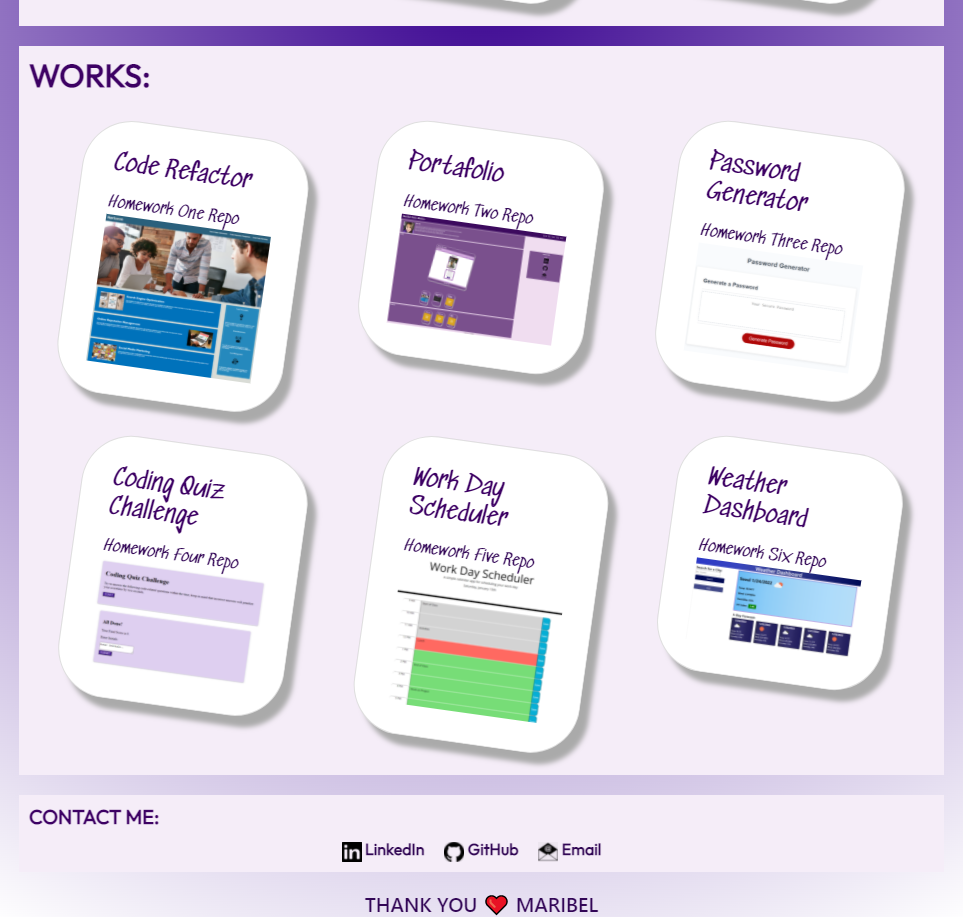
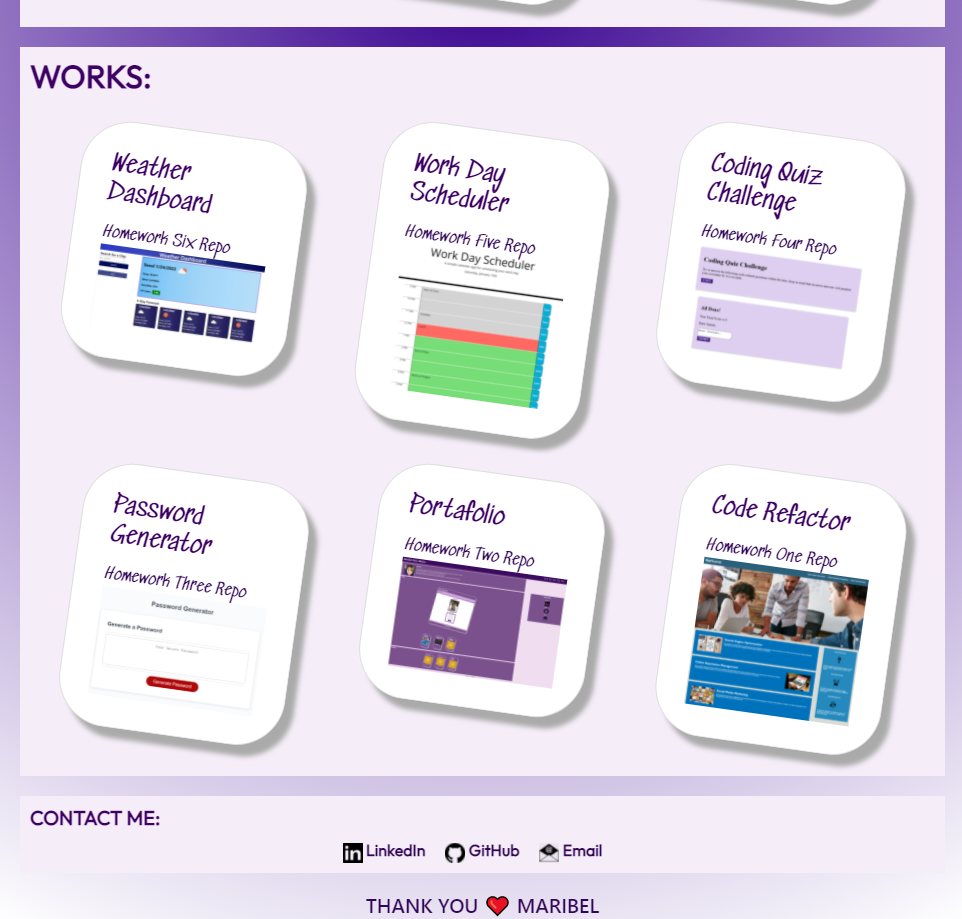
changed the line up of the cards

diff --git a/Assets/js/script.js b/Assets/js/script.js
@@ -1,28 +1,27 @@
 /// links location and information of homework works to be displayed 
 var worksInfo = {
-    urlLink: ["https://marymd98.github.io/Unit1-Homework/",
-            "https://marymd98.github.io/Unit2-Homework/",
-            "https://marymd98.github.io/Unit3-Homework/",
-            "https://marymd98.github.io/Unit4-Homework/",
+    urlLink: ["https://marymd98.github.io/Unit6-Homework/",
             "https://marymd98.github.io/Unit5-Homework/",
-            "https://marymd98.github.io/Unit6-Homework/"],
-    repoLink:["https://github.com/MaryMD98/Unit1-Homework.git",
-            "https://github.com/MaryMD98/Unit2-Homework.git",
-            "https://github.com/MaryMD98/Unit3-Homework.git",
-            "https://github.com/MaryMD98/Unit4-Homework.git",
+            "https://marymd98.github.io/Unit4-Homework/",
+            "https://marymd98.github.io/Unit3-Homework/",
+            "https://marymd98.github.io/Unit2-Homework/",
+            "https://marymd98.github.io/Unit1-Homework/"],
+    repoLink:["https://github.com/MaryMD98/Unit6-Homework.git",
             "https://github.com/MaryMD98/Unit5-Homework.git",
-            "https://github.com/MaryMD98/Unit6-Homework.git"],
-    imgSRC: ["./Assets/pictures/hw-projects/hw1-Screenshot.png",
-            "./Assets/pictures/hw-projects/hw2-Screenshot.png",
-            "./Assets/pictures/hw-projects/hw3-Screenshot.png",
-            "./Assets/pictures/hw-projects/hw4-Screenshot.png",
+            "https://github.com/MaryMD98/Unit4-Homework.git",
+            "https://github.com/MaryMD98/Unit3-Homework.git",
+            "https://github.com/MaryMD98/Unit2-Homework.git",
+            "https://github.com/MaryMD98/Unit1-Homework.git"],
+    imgSRC: ["./Assets/pictures/hw-projects/hw6-Screenshot.png",
             "./Assets/pictures/hw-projects/hw5-Screenshot.png",
-            "./Assets/pictures/hw-projects/hw6-Screenshot.png",],
-    title: ["Code Refactor","Portafolio","Password Generator",
-            "Coding Quiz Challenge","Work Day Scheduler",
-            "Weather Dashboard"],
-    cardTXT:["Homework One Repo","Homework Two Repo","Homework Three Repo",
-            "Homework Four Repo","Homework Five Repo","Homework Six Repo"],
+            "./Assets/pictures/hw-projects/hw4-Screenshot.png",
+            "./Assets/pictures/hw-projects/hw3-Screenshot.png",
+            "./Assets/pictures/hw-projects/hw2-Screenshot.png",
+            "./Assets/pictures/hw-projects/hw1-Screenshot.png"],
+    title: ["Weather Dashboard","Work Day Scheduler","Coding Quiz Challenge",
+            "Password Generator","Portafolio","Code Refactor"],
+    cardTXT:["Homework Six Repo","Homework Five Repo","Homework Four Repo",
+            "Homework Three Repo","Homework Two Repo","Homework One Repo"],
 };
 
 /// links location and information of projects to be displayed
